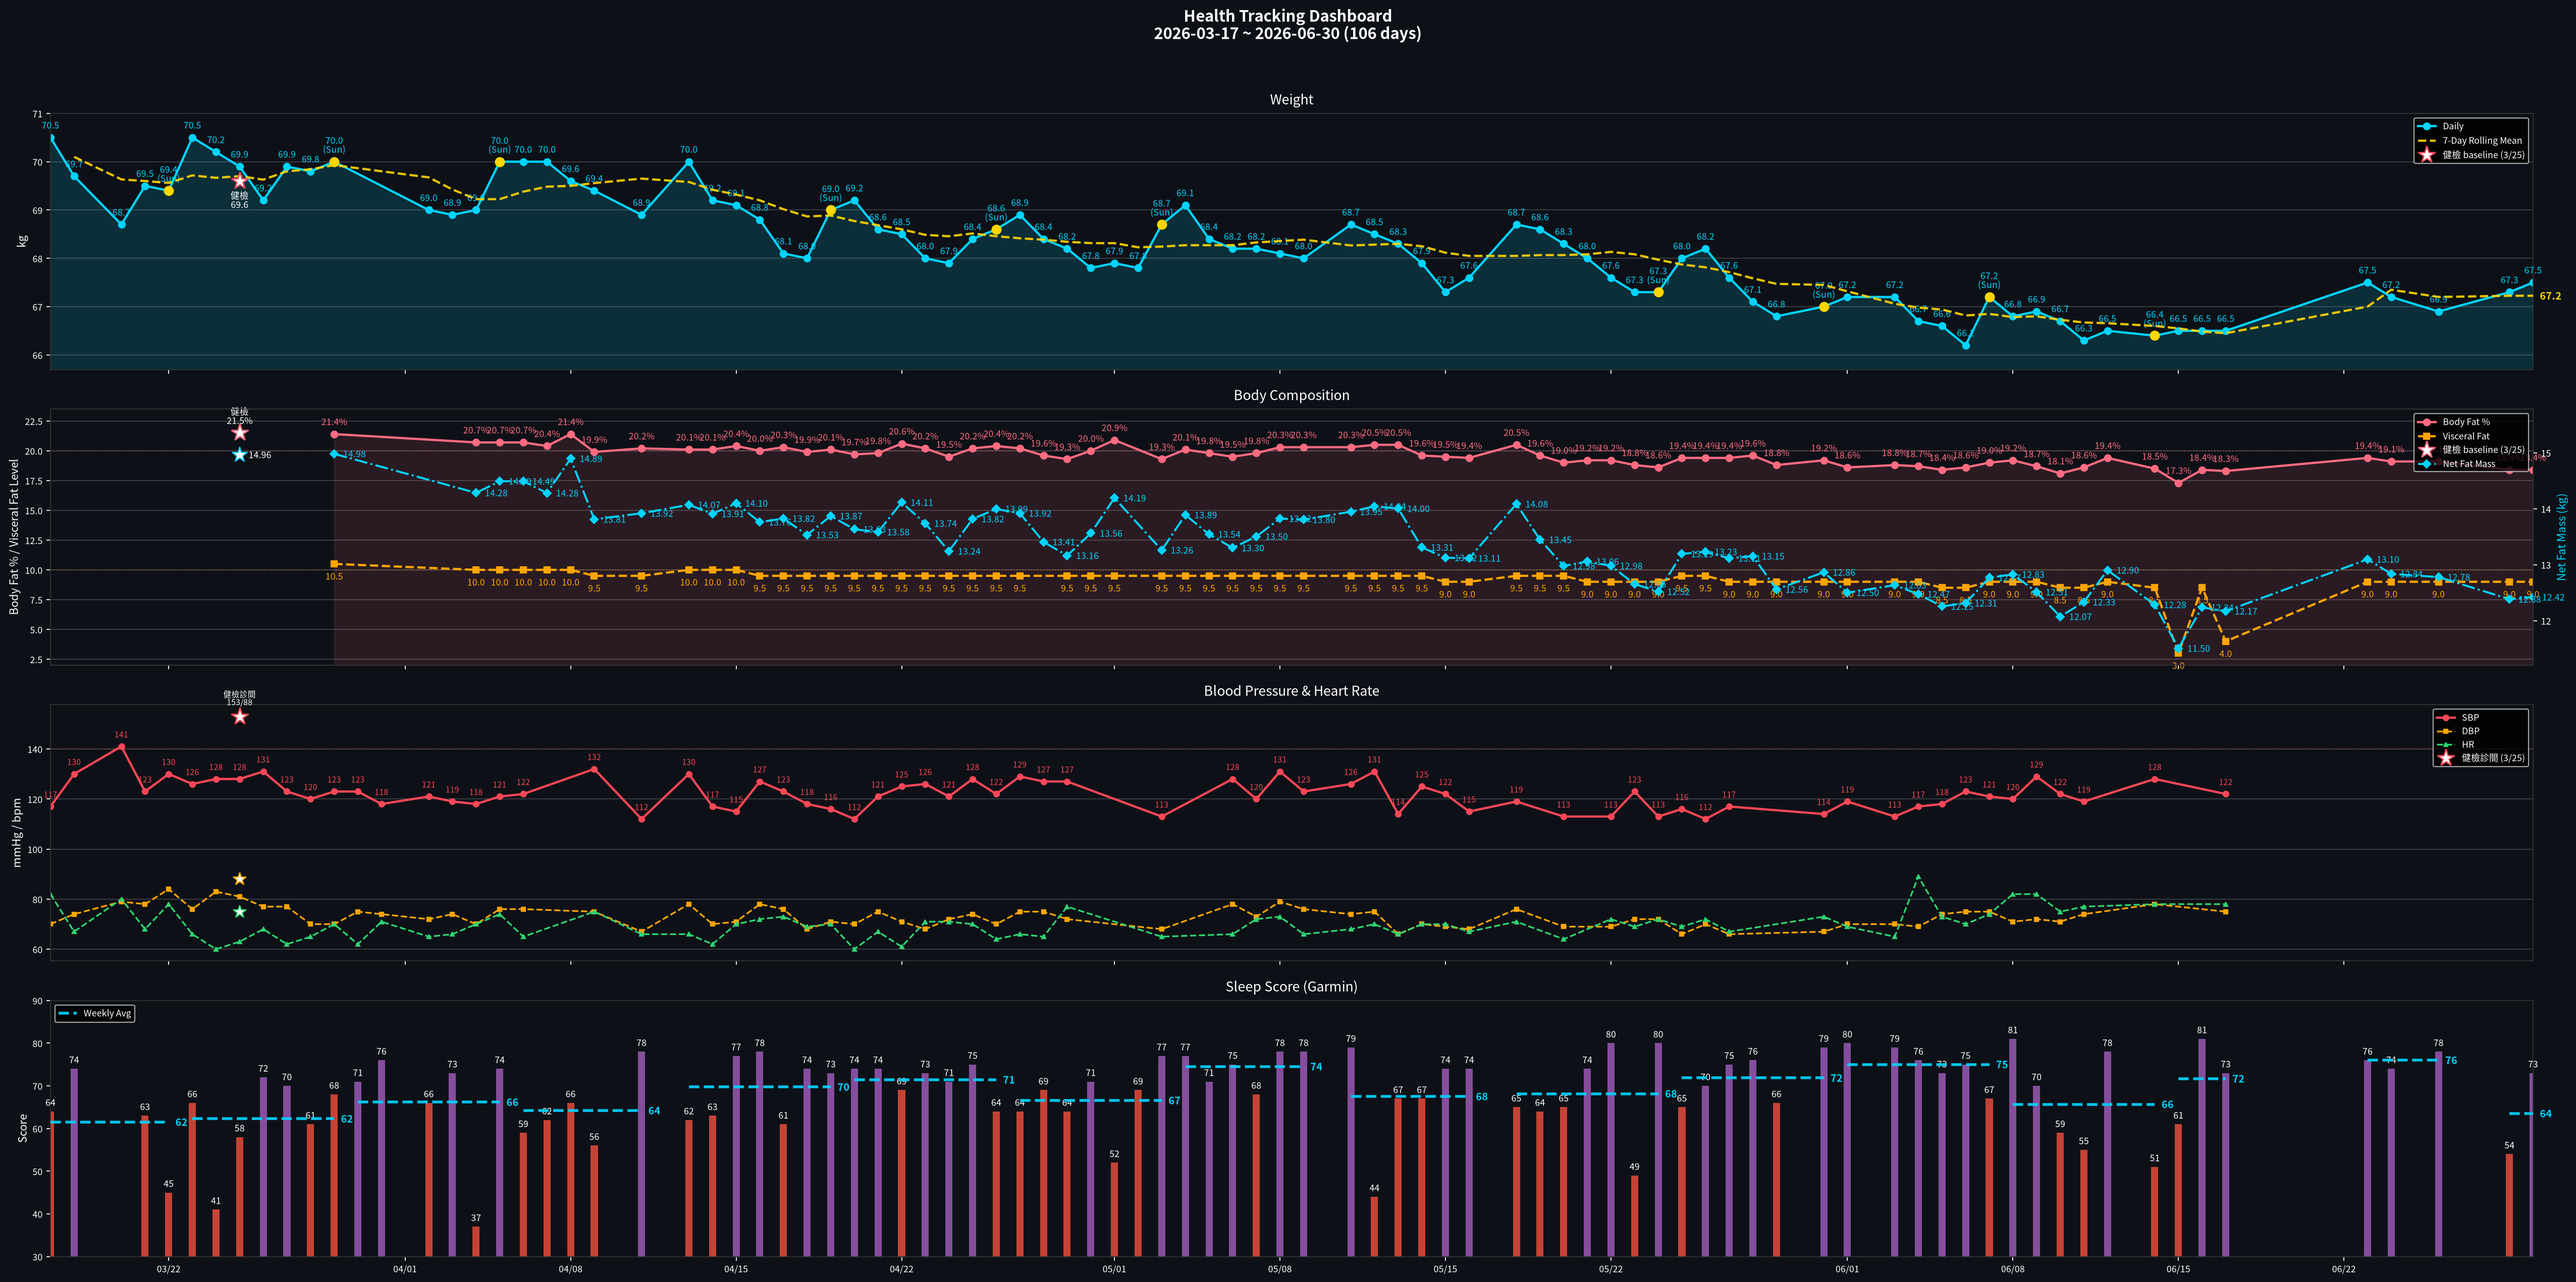
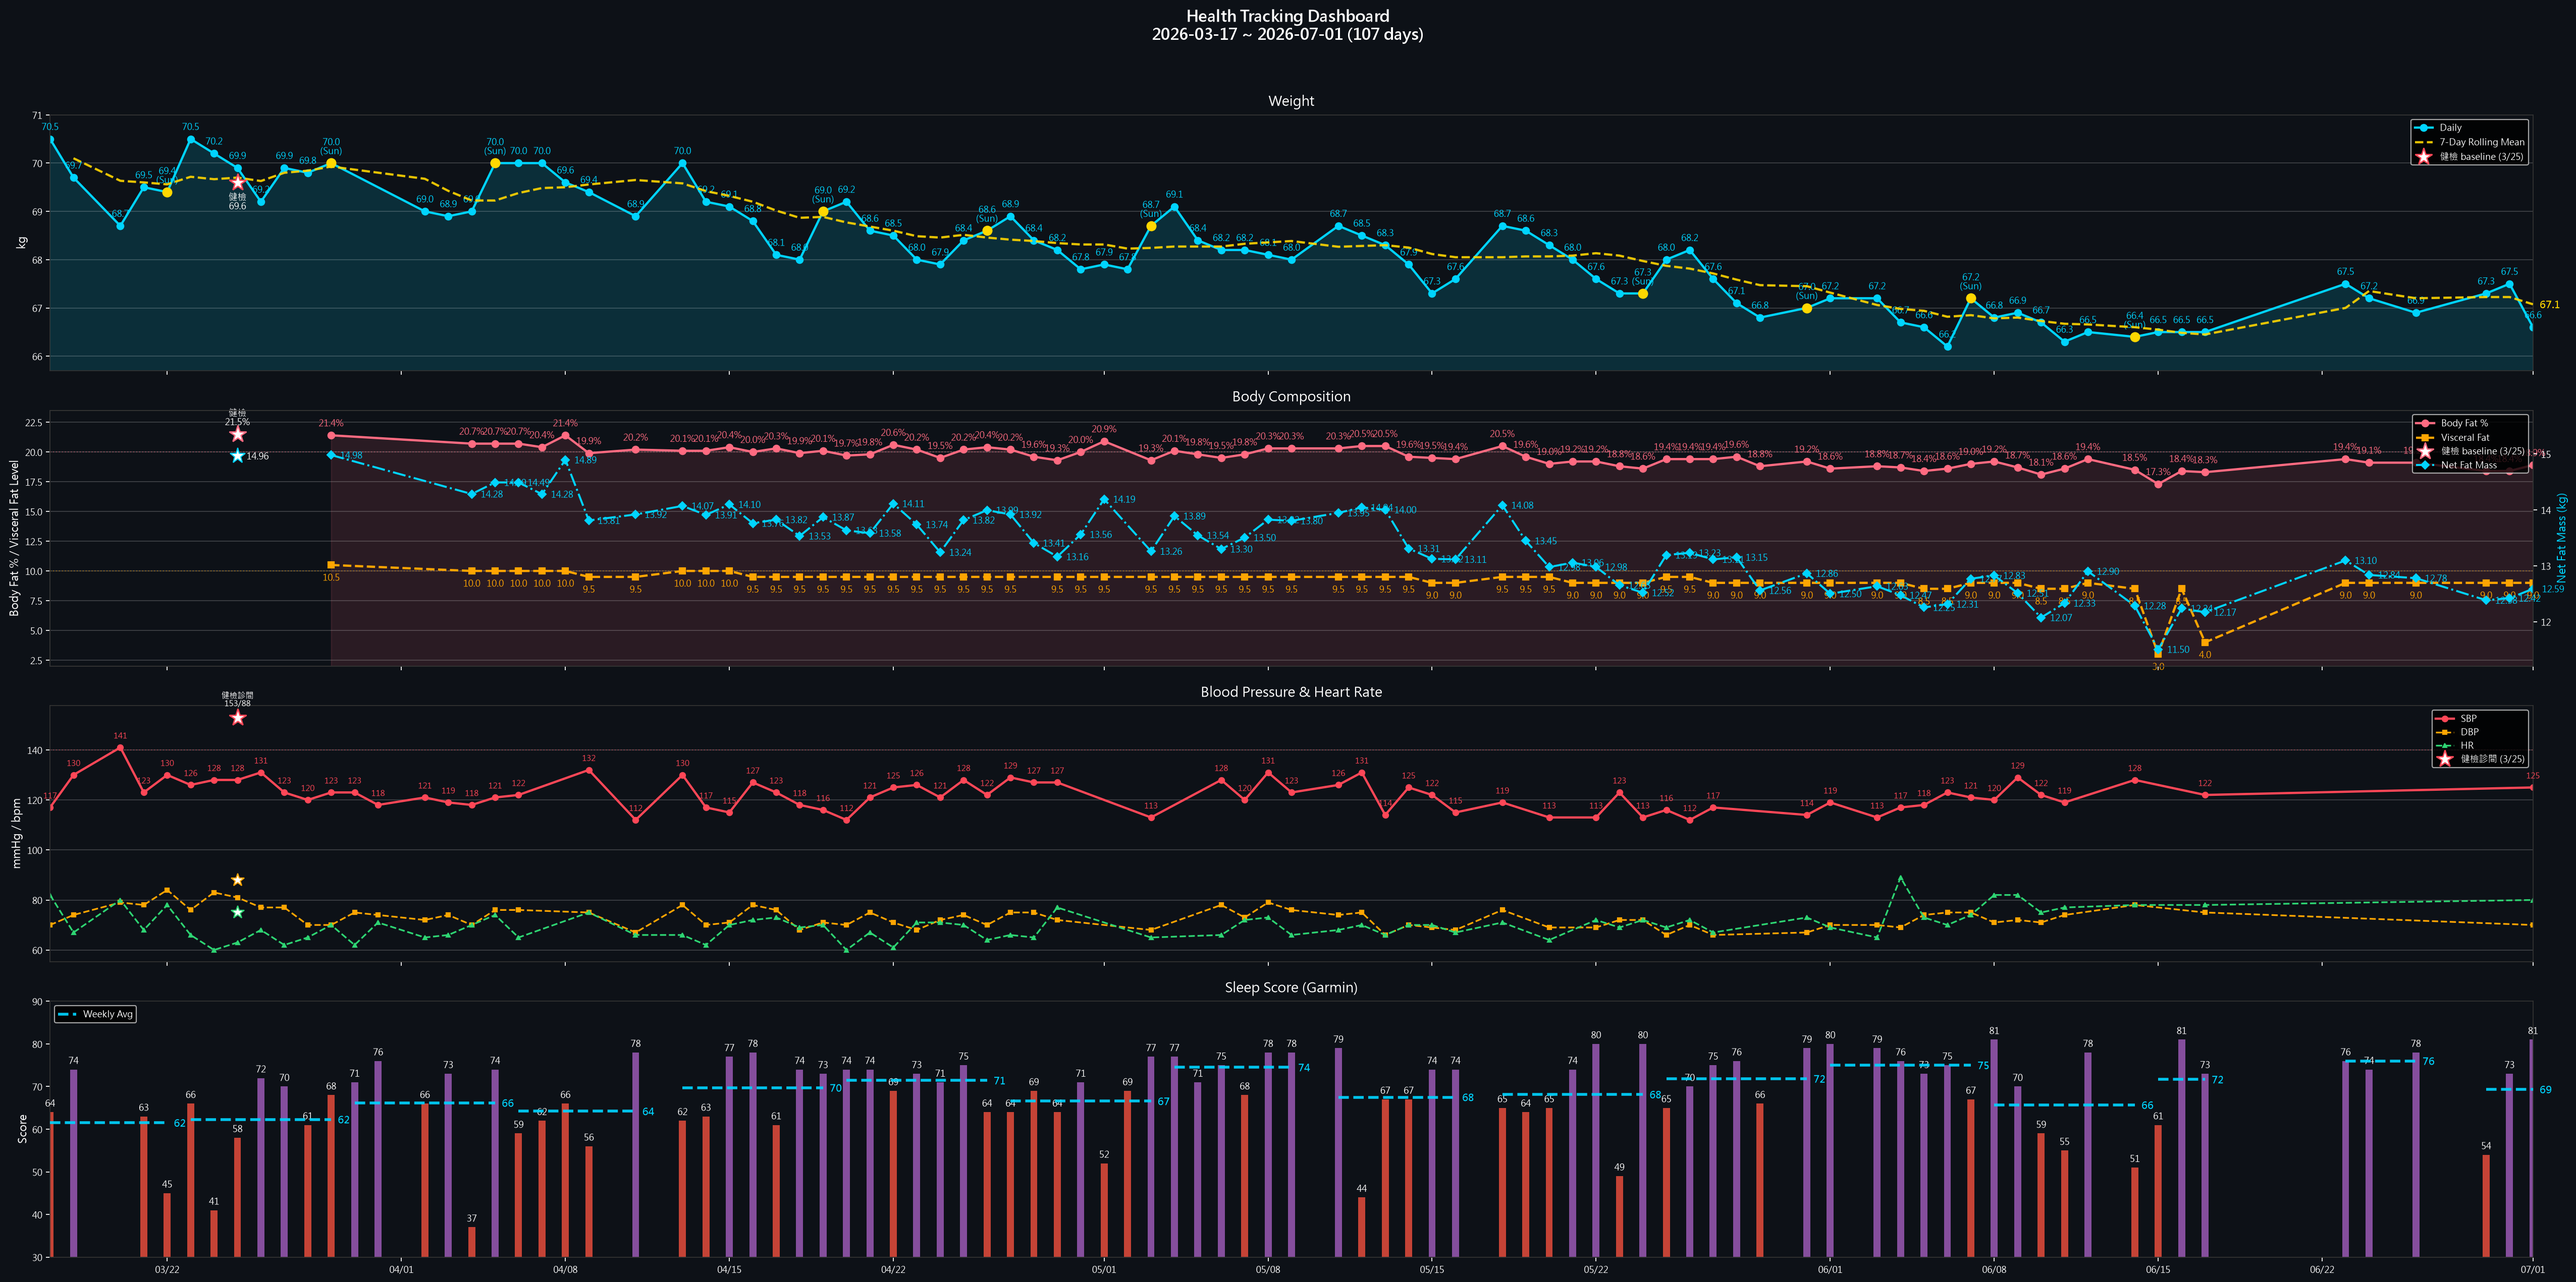
daily 2026-07-01: 體重 66.6kg/18.9%, BP 125/70, Sleep 81/BB66/7h26m

diff --git a/data.js b/data.js
@@ -17,17 +17,17 @@ window.HC_DATA = {
     lede:    { en: "Sleep, BP, lipids, uric acid — one shared metabolic root. Lifestyle stacks first; medication only after lifestyle plateaus.",
                zh: "睡眠、血壓、血脂、尿酸——共享同一個代謝根源。生活方式介入優先，等到效果平台期再考慮藥物。" },
     progressLbl: { en: "Weight progress · 70 → 65 kg", zh: "體重進度 · 70 → 65 公斤" },
-    progressMeta: { en: "Day 106 · 66.2 kg · Sat official (6/6)", zh: "第 106 天 · 66.2 公斤 · 週六正式（6/6）" },
-    startDate: { en: "Start date · Mar 17, 2026 · Last sync 6/30", zh: "起始日期 · 2026 年 3 月 17 日 · 最後同步 6/30" },
+    progressMeta: { en: "Day 107 · 66.2 kg · Sat official (6/6)", zh: "第 107 天 · 66.2 公斤 · 週六正式（6/6）" },
+    startDate: { en: "Start date · Mar 17, 2026 · Last sync 7/1", zh: "起始日期 · 2026 年 3 月 17 日 · 最後同步 7/1" },
     startWeight: 70,
     targetWeight: 65,
     currentWeight: 66.2,
     currentWeightDate: "6/6 Sat official",
     // Body comp current actuals — latest daily reading (6/5). Manual for now:
     // sync_data_js.py does NOT yet populate these (only weight/BP/sleep). Update on daily check-in.
-    currentBodyFat: 18.4,
+    currentBodyFat: 18.9,
     currentVisceralFat: 9,
-    currentBodyCompDate: "6/30",
+    currentBodyCompDate: "7/1",
     // Waist = WHO midpoint (健檢-comparable; better VAT proxy than weight). Latest non-empty daily reading.
     currentWaist: 82,
     currentWaistDate: "6/9",
@@ -62,7 +62,7 @@ window.HC_DATA = {
     },
     {
       sys: "sleep", name: { en: "Sleep Score", zh: "睡眠分數" },
-      val: "73", unit: "Garmin",
+      val: "81", unit: "Garmin",
       delta: { en: "Sleep = behavioral/autonomic · OSA/hypoxia ruled out 6/29 (fingertip oximetry flat)", zh: "睡眠＝行為/自律神經 · OSA/缺氧已排除 6/29（指尖血氧整夜平穩）" },
       cadence: { en: "Daily · Garmin", zh: "每日 · Garmin" },
       status: "warn",
@@ -946,17 +946,17 @@ window.HC_DATA = {
   tracker: {
     // [SBP, DBP] — gaps filled with prior reading
     bp: [
-      [120,71], [129,72], [122,71], [119,74], [119,74], [128,78], [128,78], [128,78], [122,75], [122,75], [122,75], [122,75], [122,75], [122,75],
+      [129,72], [122,71], [119,74], [119,74], [128,78], [128,78], [128,78], [122,75], [122,75], [122,75], [122,75], [122,75], [122,75], [125,70],
     ],
     // daily weight (kg)
-    weight: [66.8, 66.9, 66.7, 66.3, 66.5, 66.4, 66.5, 66.5, 66.5, 67.5, 67.2, 66.9, 67.3, 67.5],
+    weight: [66.9, 66.7, 66.3, 66.5, 66.4, 66.5, 66.5, 66.5, 67.5, 67.2, 66.9, 67.3, 67.5, 66.6],
     // Garmin Sleep Score
-    sleep:  [81, 70, 59, 55, 78, 51, 61, 81, 73, 76, 74, 78, 54, 73],
+    sleep:  [70, 59, 55, 78, 51, 61, 81, 73, 76, 74, 78, 54, 73, 81],
     // Body Battery waking
-    bb:     [41, 56, 37, 32, 54, 22, 27, 32, 35, 37, 40, 48, 45, 56],
+    bb:     [56, 37, 32, 54, 22, 27, 32, 35, 37, 40, 48, 45, 56, 66],
     // SpO2 nightly nadir % (last 14 days, parallel to bp/weight/sleep/bb).
     // Earlier nights null until sync_data_js.py backfills; banner only uses trailing values.
-    spo2Nadir: [90, 87, 87, 91, 88, null, 88, 86, 85, 94, 81, 93, 87, null],
+    spo2Nadir: [87, 87, 91, 88, null, 88, 86, 85, 94, 81, 93, 87, null, null],
   },
 
   // ===== Running — started 2026-04-26 =====

diff --git a/reviews/daily/2026-07-01.md b/reviews/daily/2026-07-01.md
@@ -1,0 +1,99 @@
+# 晨間健康紀錄 — 2026-07-01
+
+*3 分鐘。起床後立即完成。記錄，不分析。*
+
+---
+
+## 體重 / 體組成
+
+**今日：66.6 kg**
+**體脂率：18.9 %**
+**內臟脂肪等級：9.0**
+**腰圍 (WHO midpoint)：N/A cm**（最下肋骨下緣 + 髂嵴頂端兩點水平中點環繞，通常在肚臍上方 2-5 cm；**與健檢歷史可比**；目標維持 ≤ 83、推進至 < 80 cm）
+**腰圍 (最大腹圍)：N/A cm**（自然站立、吐氣末、不收腹，軟尺上下移動找最大讀數；通常在肚臍 0 至 -4 cm；**對內臟脂肪變化最敏感**）
+
+**軀幹脂肪（輝葉八電極，主 KPI）：— kg（— %）**（Recomp 期導航指標；目標 6.7→6.0→4.8-5.0kg / ~120-130%。標準 80-160%）
+**除脂體重 LBM（護欄）：— kg**（≥54kg 不可破；跌破=掉肌肉警訊）
+
+*每週六早晨為正式體重紀錄（排尿後、進食前；連 5 個工作日後、週末大餐前的真實低點）。其他日可選填。*
+*腰圍每日量（起床排尿後、進食前）。量兩個位置（WHO + max），方向應一致；若差距 > 3 cm 持續，考慮以 max 為主追蹤指標。*
+*WHO midpoint：科學標準，國健署 / 健檢 / metabolic syndrome 診斷用；最大腹圍：內臟脂肪 visceral fat correlation 最強。*
+*輝葉八電極（軀幹脂肪 / LBM / 分段）僅作趨勢追蹤，固定同台、看週/月、不解讀單次 0.1kg；體重/體脂率官方值仍以 Tanita 維持 data.js 連續性，兩台不混比絕對值（內臟 Tanita 8.5 ≠ 輝葉 4.0，刻度不同）。週六或有量到時填，平日可留空。*
+
+---
+
+## 血壓（晨間）
+
+*起床後 1 小時內，上完廁所、進食前。坐下安靜 5 分鐘，連量兩次取第二次。*
+
+| 次數 | 收縮壓 | 舒張壓 | 心率 |
+|------|--------|--------|------|
+| 第一次 | 125 | 70 | 80 |
+| 第二次 | N/A | N/A | N/A |
+
+---
+
+## 睡眠狀態
+
+**Garmin 偵測入睡：** 21:19
+**實際上床：**
+**實際起床：** 05:06
+**中途醒來：** 無
+**Garmin Sleep Score：** 81 / 100
+**Garmin Body Battery 起床值：** 66
+**主觀恢復感：** 3 / 5（1=極度疲憊, 5=精力充沛）
+**入睡 latency：**（自動估算）
+
+### SpO2 夜間數值（僅參考 — OSA 篩檢已撤回 2026-06-29）
+
+> ⚠ 指夾式（透射式）連續血氧證實整夜平穩、無掉氧；腕式 SpO2 掉氧為動作 artifact。以下僅留昨夜數值供趨勢參考,**不作 OSA 判讀、不觸發紅旗**。全夜圖表（hypnogram / Heatmap / 7 晚疊圖）已降為選跑,平日略過。
+
+**今晨最低 SpO2：** 90%（參考）
+**今晨日均 SpO2：** 96.0%
+
+*Sleep Score < 65 或 Body Battery < 50 連續三天 → 重新檢視睡眠修復方案。*
+
+---
+
+## 昨日回顧
+
+**實際飲水量：** 1.80 L（目標 ≥ 2.5L；高尿酸最佳 2.8–3.0L；17:00 前完成 60-70%）
+**昨日活動消耗：** 161 kcal（主動 + BMR；自動讀自 Garmin daily summary 活動區塊）
+  - > 300 kcal → 今日可彈性增加 200-300 kcal 攝取
+  - < 100 kcal → 今日加強運動（補一段 Zone 2 走路 30 分）
+**昨日 Na / K / Na-K ratio：** 975 mg / 1990 mg / 0.49 ✅（自動讀自 `scripts/analyze_nutrition.py --date YYYY-MM-DD`）
+  - Na/K < 0.5 ✅ / 0.5-0.6 🟢 / 0.6-0.8 🟡 / > 0.8 🟠（INTERSALT 1988）
+  - 連 3 天 ≥ 0.8 → 首選減鈉（自煮蛋取代茶葉蛋 −440 mg）或加 K（香蕉 +422 mg）
+
+---
+
+## 身體信號
+
+*任何張力、疼痛、疲勞、異常 — 或「清」。記位置、性質、強度。*
+
+| 部位 | 性質 | 強度 (0-10) |
+|------|------|-------------|
+| 清 | — | — |
+
+---
+
+## 今日計畫速記
+
+- [ ] 飲水目標：2.5 L（建議 2.5–3.0L；錨點 09:30 ≥1.0L / 13:30 ≥2.0L / 17:00 截止 2.5L）
+- [ ] 補充品（核心，2026-05-11 v2）：
+  - 早餐（06:00）：D3 2000 IU + **K2 MK-7 180 mcg** + **L-Citrulline 4 g** + 益生菌
+  - 午餐前 30 min：Psyllium 5 g + 350 mL 水
+  - 晚餐前 30 min：Psyllium 5 g + 350 mL 水
+  - 晚餐後：魚油 ×4（拆 18:30 ×2 + 19:30 ×2）
+  - 睡前（21:00）：鎂甘胺酸 400 mg + 酸櫻桃 1000-2000 mg + **Glycine 純粉 3 g**（起步 1.5 g × 3 晚）
+  - 茶飲：洛神花 ×2 杯（早 + 14:00 前）
+  - 食物層：南瓜籽 30 g（15:30）+ **菇蕈 100-130 g/天**（午 30-50 + 晚 50-80）
+  - ⏸ 待定：NAC 600 mg × 2（待 PSG 結果）
+- [ ] 運動（17:00 固定）：default
+- [ ] 活動度/伸展（09:30 + 20:30 兩次錨點）：default
+- [ ] Wind-down（20:00 燈光降 + 螢幕濾鏡，液體截止）
+- [ ] 上床 21:30 / 熄燈 22:00（TST 目標 7h+）
+
+---
+
+*Filed: reviews/daily/2026-07-01.md*

diff --git a/reviews/weekly/2026-W27.md b/reviews/weekly/2026-W27.md
@@ -41,9 +41,9 @@
 
 |  | 一 | 二 | 三 | 四 | 五 | 六 | 日 |
 |--|----|----|----|----|----|----|-----|
-| 體重 (kg) | 67.3 | 67.5 | | | | | |
-| 體脂率 (%) | 18.4 | 18.4 | | | | | |
-| 內臟脂肪 | 9.0 | 9.0 | | | | | |
+| 體重 (kg) | 67.3 | 67.5 | 66.6 | | | | |
+| 體脂率 (%) | 18.4 | 18.4 | 18.9 | | | | |
+| 內臟脂肪 | 9.0 | 9.0 | 9.0 | | | | |
 | **腰圍 WHO (cm)** | | | | | | | |
 | **腰圍 max (cm)** | | | | | | | |
 
@@ -63,7 +63,7 @@
 |------|--------|--------|------|
 | 06-29 (一) | N/A | N/A | N/A |
 | 06-30 (二) | N/A | N/A | N/A |
-| 07-01 (三) | | | |
+| 07-01 (三) | 125 | 70 | 80 |
 | 07-02 (四) | | | |
 | 07-03 (五) | | | |
 | 07-04 (六) | | | |
@@ -81,7 +81,7 @@
 |------|------|------|--------|-------------|--------------|----------|
 | 06-29 (一) | 02:09 | 06:00 | 無 | 54 | 45 | 2 |
 | 06-30 (二) | 21:53 | 03:45 | 無 | 73 | 56 | 3 |
-| 07-01 (三) | | | | | | |
+| 07-01 (三) | 21:19 | 05:06 | 無 | 81 | 66 | 3 |
 | 07-02 (四) | | | | | | |
 | 07-03 (五) | | | | | | |
 | 07-04 (六) | | | | | | |

diff --git a/reports/daily-garmin/2026-06-30.md b/reports/daily-garmin/2026-06-30.md
@@ -6,28 +6,32 @@
 - 深眠：98 分｜REM：48 分
 - Sleep Score：73
 - Body Battery 起床值：56
+- 估算上床：21:45｜入睡 latency：8 分（範圍 8–23 分）
 
 ## 靜息心率
 - RHR：57.0 bpm
 
 ## 壓力
-- 日均：23
+- 日均：25
 
 ## 步數
-- 總計：2,631
+- 總計：10,085
 
 ## SpO2
-- 日均：96.0%
+- 日均：97.0%
 - 最低：89%
 
 ## 活動
 | 時段 | 類型 | 距離 | 時長 | 平均 HR | 最大 HR | 主動 kcal | 含 BMR |
 |------|------|------|------|---------|---------|-----------|--------|
 | 09:04 | cycling | 1.06 km | 6.4 min | 142 | 154 | 52 | 60 |
+| 12:38 | walking | 1.42 km | 14.4 min | 124 | 142 | 82 | 101 |
+| 12:57 | meditation | 0.00 km | 10.0 min | 89 | 102 | 0 | 0 |
+| **小計** | 3 段 | **2.48 km** | **30.8 min** | — | — | **134** | **161** |
 
 ## 飲水
-- 實際：0.00 L
-- 目標：2.10 L
-- 運動流汗耗水：0.10 L
+- 實際：1.80 L
+- 目標：2.44 L
+- 運動流汗耗水：0.43 L
 
 _Source: data/garmin/2026-06-30.json (gitignored)_

diff --git a/reports/daily-garmin/2026-07-01.md b/reports/daily-garmin/2026-07-01.md
@@ -1,0 +1,27 @@
+# Garmin 每日摘要 — 2026-07-01
+
+## 睡眠
+- 就寢：21:19｜起床：05:06
+- 總時長：7h 26m
+- 深眠：62 分｜REM：96 分
+- Sleep Score：81
+- Body Battery 起床值：66
+
+## 靜息心率
+- RHR：59.0 bpm
+
+## 壓力
+- 日均：25
+
+## 步數
+- 總計：3,019
+
+## SpO2
+- 日均：96.0%
+- 最低：90%
+
+## 飲水
+- 實際：— （Garmin Connect 未紀錄，請於 check-in 手動輸入）
+- 目標：2.00 L
+
+_Source: data/garmin/2026-07-01.json (gitignored)_
